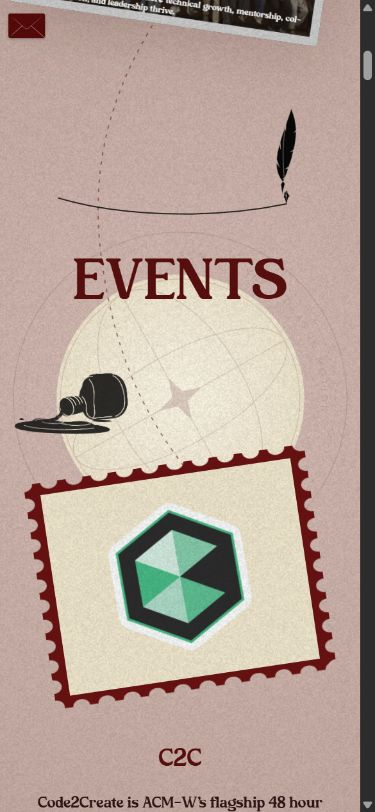
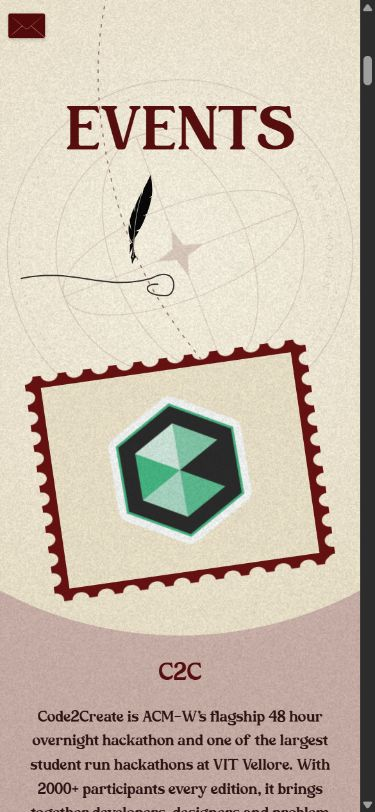
feat: draw an independent left-side quill flourish for Events
Replace the heading-surrounding path with a far-left approach, a separate horizontal ink sweep and terminal curl, and a gentle lift into a mid-left resting pose. Keep the nib on the sampled stroke endpoint during drawing and retrace the same entry and ink sequence when scrolling upward.

Blend a slow GSAP drift and fine rotation loop into the settled pose only. Pause ambient motion outside the header viewport or while the document is hidden. Use CSS translate3d transforms, cached path samples and a bounded SVG canvas; provide a completed static composition for reduced motion and responsive clearance above the unchanged event cards.

Validation: ESLint, TypeScript and Vite build pass (existing bundle-size warning remains). Browser checks at 390px, 820px and 1280px confirm unclipped title, separated quill, reversible dials and stroke, and ambient movement at unchanged scroll position. No browser errors. Refresh desktop and phone preview images.

diff --git a/src/components/EventsQuill.tsx b/src/components/EventsQuill.tsx
@@ -5,11 +5,10 @@ import quill from '../assets/decor/black-feather.svg';
 import './EventsQuill.css';
 
 gsap.registerPlugin(ScrollTrigger);
-
 type Point = { x: number; y: number };
 const SAMPLE_COUNT = 240;
 
-/** Sample once on layout/refresh, never read SVG geometry during a frame. */
+/** Cache arc-length samples on layout changes, never during an animation frame. */
 function samplePath(path: SVGPathElement): Point[] {
   const length = path.getTotalLength();
   return Array.from({ length: SAMPLE_COUNT + 1 }, (_, index) => {
@@ -17,7 +16,6 @@ function samplePath(path: SVGPathElement): Point[] {
     return { x: point.x, y: point.y };
   });
 }
-
 function pointAt(points: Point[], progress: number): Point {
   const position = Math.max(0, Math.min(1, progress)) * SAMPLE_COUNT;
   const index = Math.min(SAMPLE_COUNT - 1, Math.floor(position));
@@ -26,7 +24,7 @@ function pointAt(points: Point[], progress: number): Point {
     y: points[index].y + (points[index + 1].y - points[index].y) * blend };
 }
 
-/** One scrubbed playhead owns the nib position and the exact ink endpoint. */
+/** A scroll-owned nib traces a separate left flourish, then softly suspends. */
 export default function EventsQuill() {
   const root = useRef<SVGSVGElement>(null);
   const approachRef = useRef<SVGPathElement>(null);
@@ -40,89 +38,110 @@ export default function EventsQuill() {
     const pen = penRef.current;
     const journey = svg?.closest('.chapter-journey');
     const events = journey?.querySelector<HTMLElement>('#events');
-    const heading = events?.querySelector<HTMLElement>('h1');
-    const bottle = journey?.querySelector<HTMLElement>('[data-stationery="ink"]');
-    if (!svg || !approach || !stroke || !pen || !journey || !events || !heading) return;
+    const intro = events?.querySelector<HTMLElement>('.events-intro');
+    const heading = intro?.querySelector<HTMLElement>('h1');
+    if (!svg || !approach || !stroke || !pen || !journey || !events || !intro || !heading) return;
 
     const media = gsap.matchMedia();
-    media.add({ moving: '(prefers-reduced-motion: no-preference)', still: '(prefers-reduced-motion: reduce)', compact: '(max-width: 48rem)' }, context => {
+    media.add({ moving: '(prefers-reduced-motion: no-preference)', still: '(prefers-reduced-motion: reduce)', compact: '(max-width: 56.25rem)' }, context => {
       const moving = Boolean(context.conditions?.moving);
       const compact = Boolean(context.conditions?.compact);
-      const playhead = { entry: 0, ink: 0, lift: 0 };
+      const playhead = { entry: 0, ink: 0, settle: 0 };
+      const drift = { x: 0, y: 0, angle: 0 };
       let entryPoints: Point[] = [];
       let inkPoints: Point[] = [];
-      let scale = .35;
+      let scale = .3;
       let rest: Point = { x: 0, y: 0 };
-      let sceneWidth = 0;
-      let titleRight = 0;
+      let inView = false;
+      let scrollActive = false;
+      let idleRunning = false;
+      let idle: gsap.core.Timeline | undefined;
+      const updateIdle = () => {
+        const shouldRun = moving && inView && !document.hidden && playhead.settle > 0;
+        if (shouldRun === idleRunning) return;
+        idleRunning = shouldRun;
+        pen.style.willChange = shouldRun || scrollActive ? 'transform' : 'auto';
+        if (shouldRun) idle?.play(); else idle?.pause();
+      };
       const render = () => {
         if (!entryPoints.length || !inkPoints.length) return;
         const writing = playhead.ink > 0 || playhead.entry >= 1;
-        let point = pointAt(writing ? inkPoints : entryPoints, writing ? playhead.ink : playhead.entry);
-        const lift = playhead.lift;
-        point = { x: point.x + (rest.x - point.x) * lift, y: point.y + (rest.y - point.y) * lift };
-        // Turn the quill upright as the nib approaches a narrow screen edge.
-        const turn = gsap.utils.clamp(0, 1, compact
-          ? (point.x - (sceneWidth - 170)) / 100
-          : (point.x - (titleRight - 80)) / 100);
-        const edgeTurn = .5 - Math.cos(turn * Math.PI) / 2;
-        const writingAngle = 77 + Math.sin(playhead.ink * Math.PI * 2) * 3 - edgeTurn * (compact ? 102 : 48);
-        const angle = writingAngle + ((compact ? -25 : -18) - writingAngle) * lift;
-        // The artwork's nib is exactly (18, 542); image offset makes it local (0, 0).
-        pen.setAttribute('transform', `translate(${point.x} ${point.y}) rotate(${angle}) scale(${scale})`);
-        pen.style.opacity = moving ? String(Math.min(1, playhead.entry * 3)) : '1';
+        const traced = pointAt(writing ? inkPoints : entryPoints, writing ? playhead.ink : playhead.entry);
+        const settle = playhead.settle;
+        // Idle blends out before reverse scrolling retracts the stroke: the nib stays exact.
+        const ambient = settle * settle;
+        const x = traced.x + (rest.x - traced.x) * settle + drift.x * ambient;
+        const y = traced.y + (rest.y - traced.y) * settle + drift.y * ambient;
+        const writingAngle = -3 + Math.sin(playhead.ink * Math.PI * 2) * 3;
+        const angle = writingAngle + (-18 - writingAngle) * settle + drift.angle * ambient;
+        // The artwork nib (18,542) is offset to local (0,0).
+        pen.style.transform = `translate3d(${x}px, ${y}px, 0) rotate(${angle}deg) scale(${scale})`;
+        pen.style.opacity = moving ? String(Math.min(1, playhead.entry * 4)) : '1';
         stroke.setAttribute('stroke-dashoffset', String(moving ? 1 - playhead.ink : 0));
+        updateIdle();
       };
       const measure = () => {
-        const frame = svg.getBoundingClientRect();
+        const frame = journey.getBoundingClientRect();
         const title = heading.getBoundingClientRect();
-        const range = document.createRange();
-        range.selectNodeContents(heading);
-        const text = range.getBoundingClientRect();
-        titleRight = text.right - frame.left;
-        const bottleRight = bottle ? bottle.getBoundingClientRect().right - frame.left : 0;
         const width = frame.width;
-        sceneWidth = width;
-        const height = frame.height;
-        scale = compact ? Math.min(.18, width / 2200) : Math.min(.4, Math.max(.28, width / 3300));
-        const left = compact ? Math.max(20, text.left - frame.left - 15)
-          : Math.max(text.left - frame.left - 26, bottleRight + 30);
-        const right = Math.min(text.right - frame.left, width - (compact ? 90 : 165));
-        // Above the title on narrow screens keeps the blade and bottle clear.
-        const y = compact ? title.top - frame.top - 46 : title.bottom - frame.top + 27;
-        const approachSide = compact ? -1 : 1;
+        const height = title.height + 370;
+        // Local SVG canvas bounds the ink repaint; geometry is independent of scroll.
+        svg.style.top = `${title.top - frame.top - 100}px`;
+        svg.style.height = `${height}px`;
         svg.setAttribute('viewBox', `0 0 ${width} ${height}`);
-        approach.setAttribute('d', `M${width + 100},${y + approachSide * 48} C${width * .8},${y + approachSide * 90} ${left + 70},${y + approachSide * 75} ${left},${y}`);
-        stroke.setAttribute('d', `M${left},${y} C${left + 65},${y + 19} ${right - 65},${y + 23} ${right + 18},${y + 5} C${right + 77},${y - 8} ${right + 68},${y + 35} ${right + 29},${y + 35} C${right + 3},${y + 35} ${right - 4},${y + 19} ${right + 14},${y + 17}`);
+        scale = compact ? Math.min(.21, width / 2300) : Math.min(.34, Math.max(.26, width / 4000));
+        const left = compact ? 22 : Math.max(32, Math.min(84, width * .055));
+        const right = compact ? Math.min(260, width * .42) : Math.max(200, Math.min(340, width * .245));
+        const y = 100 + title.height + (compact ? 115 : 125);
+        const curl = compact ? 28 : 46;
+        approach.setAttribute('d', `M${-width * .3 - 120},${y + 45} C${-width * .13},${y + 48} ${left - 50},${y - 22} ${left},${y}`);
+        stroke.setAttribute('d', `M${left},${y} C${left + 55},${y - 12} ${right - 50},${y + 14} ${right},${y} C${right + curl},${y - 16} ${right + curl},${y + 18} ${right + 15},${y + 18} C${right - 8},${y + 18} ${right - 10},${y + 5} ${right + 7},${y + 6}`);
         entryPoints = samplePath(approach);
         inkPoints = samplePath(stroke);
-        rest = { x: compact ? width - 35 : right + 65, y: y + 14 };
-        if (!moving) Object.assign(playhead, { entry: 1, ink: 1, lift: 1 });
+        rest = { x: right - (compact ? 22 : 12), y: y - 12 };
+        if (!moving) Object.assign(playhead, { entry: 1, ink: 1, settle: 1 });
         render();
       };
       measure();
-      const observer = new ResizeObserver(measure);
-      observer.observe(journey);
+      if (moving) {
+        // Three unequal, slow arcs feel less mechanical than a constant bounce.
+        idle = gsap.timeline({ paused: true, repeat: -1, onUpdate: render, defaults: { ease: 'sine.inOut' } })
+          .to(drift, { x: 2, y: -3, angle: .8, duration: 3.1 })
+          .to(drift, { x: -1.8, y: 1.3, angle: -.65, duration: 3.7 })
+          .to(drift, { x: 0, y: 0, angle: 0, duration: 3.4 });
+        gsap.timeline({
+          onUpdate: render,
+          scrollTrigger: {
+            trigger: events, start: 'top 95%', end: 'top 8%', scrub: 1.5,
+            invalidateOnRefresh: true,
+            onToggle: self => {
+              scrollActive = self.isActive;
+              pen.style.willChange = scrollActive || idleRunning ? 'transform' : 'auto';
+            },
+          },
+        })
+          .to(playhead, { entry: 1, duration: .24, ease: 'sine.inOut' })
+          .to(playhead, { ink: 1, duration: .64, ease: 'sine.inOut' })
+          .to(playhead, { settle: 1, duration: .22, ease: 'sine.inOut' });
+      }
+      const visibility = new IntersectionObserver(entries => {
+        inView = entries.some(entry => entry.isIntersecting);
+        updateIdle();
+      }, { rootMargin: '160px 0px' });
+      visibility.observe(intro);
+      document.addEventListener('visibilitychange', updateIdle);
+      const resize = new ResizeObserver(measure);
+      resize.observe(journey);
       let live = true;
       void document.fonts.ready.then(() => { if (live) measure(); });
       document.fonts.addEventListener('loadingdone', measure);
       ScrollTrigger.addEventListener('refreshInit', measure);
-      if (moving) {
-        gsap.timeline({
-          onUpdate: render,
-          scrollTrigger: {
-            trigger: events, start: 'top 95%', end: 'top -30%', scrub: 1.6,
-            invalidateOnRefresh: true,
-            onToggle: self => { pen.style.willChange = self.isActive ? 'transform' : 'auto'; },
-          },
-        })
-          .to(playhead, { entry: 1, duration: .25, ease: 'sine.inOut' })
-          .to(playhead, { ink: 1, duration: .62, ease: 'sine.inOut' })
-          .to(playhead, { lift: 1, duration: .23, ease: 'sine.inOut' });
-      }
       return () => {
         live = false;
-        observer.disconnect();
+        idle?.kill();
+        resize.disconnect();
+        visibility.disconnect();
+        document.removeEventListener('visibilitychange', updateIdle);
         document.fonts.removeEventListener('loadingdone', measure);
         ScrollTrigger.removeEventListener('refreshInit', measure);
         pen.style.removeProperty('will-change');

diff --git a/src/components/ChapterJourney.tsx b/src/components/ChapterJourney.tsx
@@ -2,6 +2,7 @@ import { useId, useLayoutEffect, useRef, type ReactNode } from 'react';
 import gsap from 'gsap';
 import { ScrollTrigger } from 'gsap/ScrollTrigger';
 import './ChapterJourney.css';
+import EventsQuill from './EventsQuill';
 
 gsap.registerPlugin(ScrollTrigger);
 
@@ -107,6 +108,7 @@ export default function ChapterJourney({ children }: { children: ReactNode }) {
       <div className="journey-asset journey-asset--letter" data-journey-drift="1.3"><SealedLetter/></div>
       <div className="journey-asset journey-asset--send" data-journey-drift="1.8"><Plane/></div>
       <i className="journey-route-dot journey-route-dot--one"/><i className="journey-route-dot journey-route-dot--two"/>
+      <EventsQuill/>
     </div>
     {children}
   </div>;

diff --git a/src/components/EventsQuill.css b/src/components/EventsQuill.css
@@ -1,6 +1,6 @@
-.events-quill-scene { position: absolute; inset: 0; width: 100%; height: 100%; overflow: visible; pointer-events: none; }
+.events-quill-scene { position: absolute; left: 0; width: 100%; height: 460px; overflow: visible; pointer-events: none; }
 .events-quill-stroke { fill: none; stroke: #080808; stroke-width: 1.7; stroke-linecap: round; stroke-linejoin: round; opacity: .82; }
-.events-quill-pen { opacity: 0; }
+.events-quill-pen { opacity: 0; transform-origin: 0 0; transform-box: view-box; }
 @media (max-width: 48rem) {
   .events-quill-stroke { stroke-width: 1.35; }
 }
